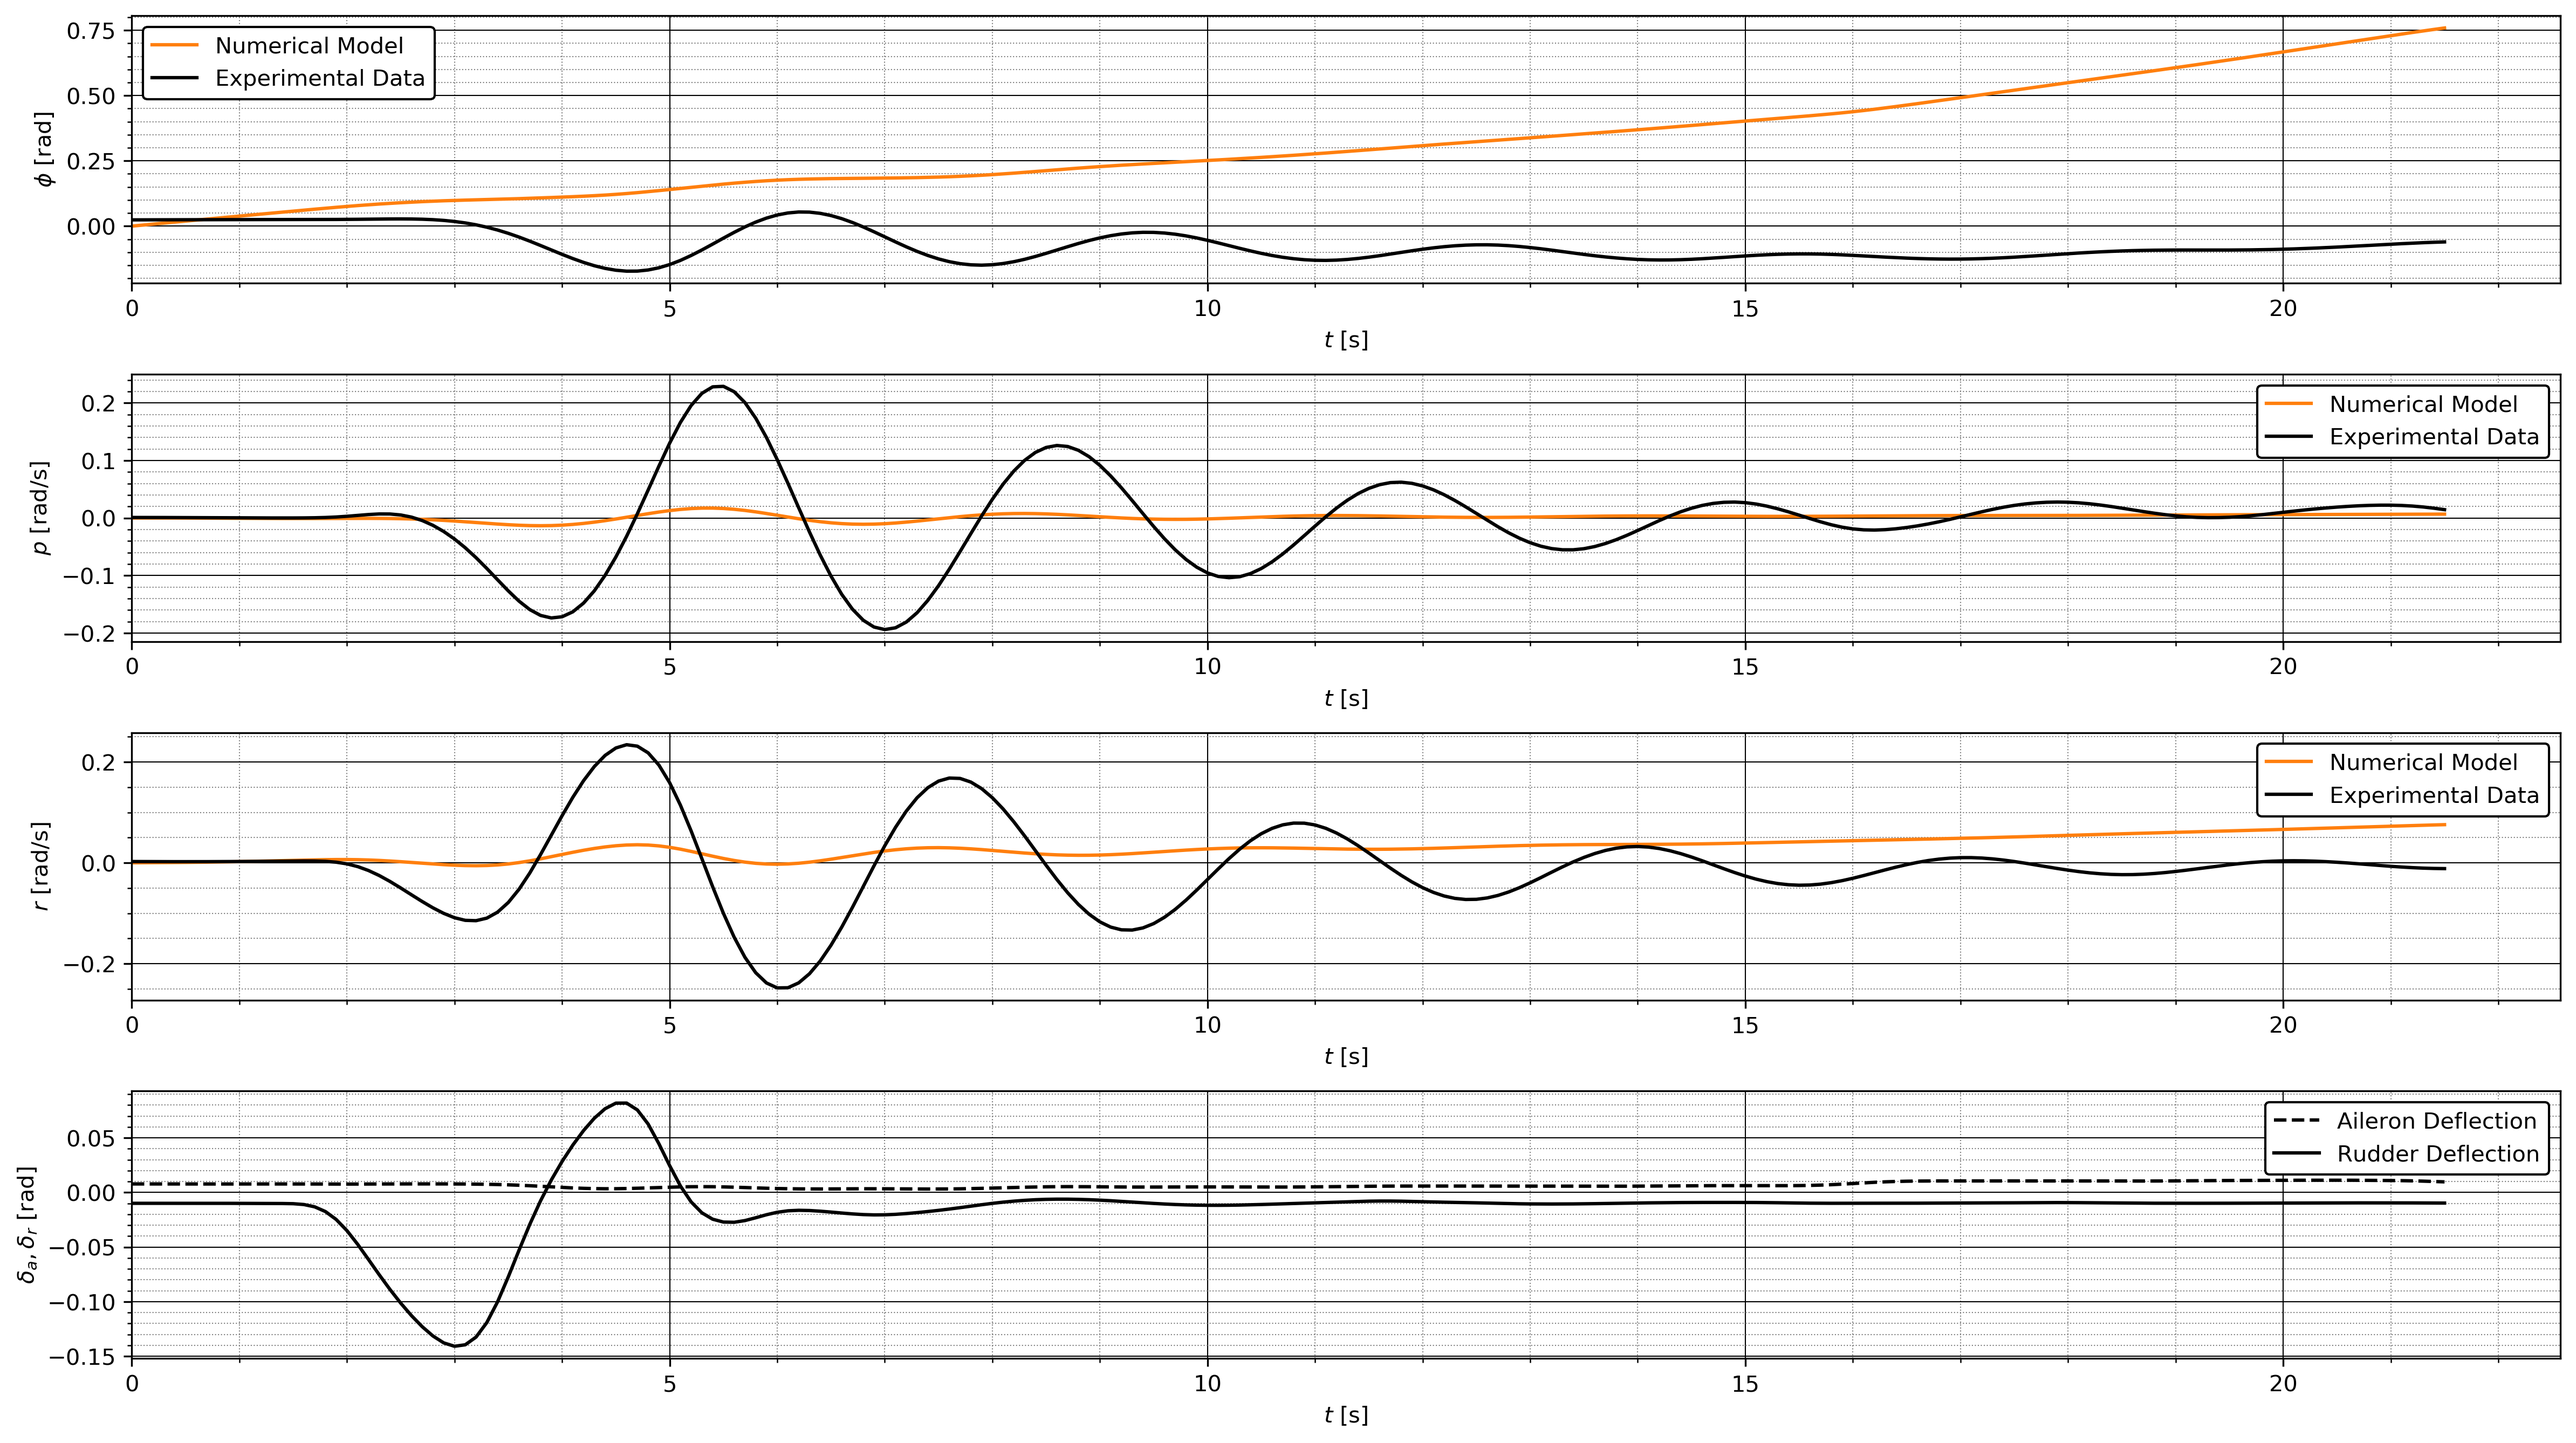
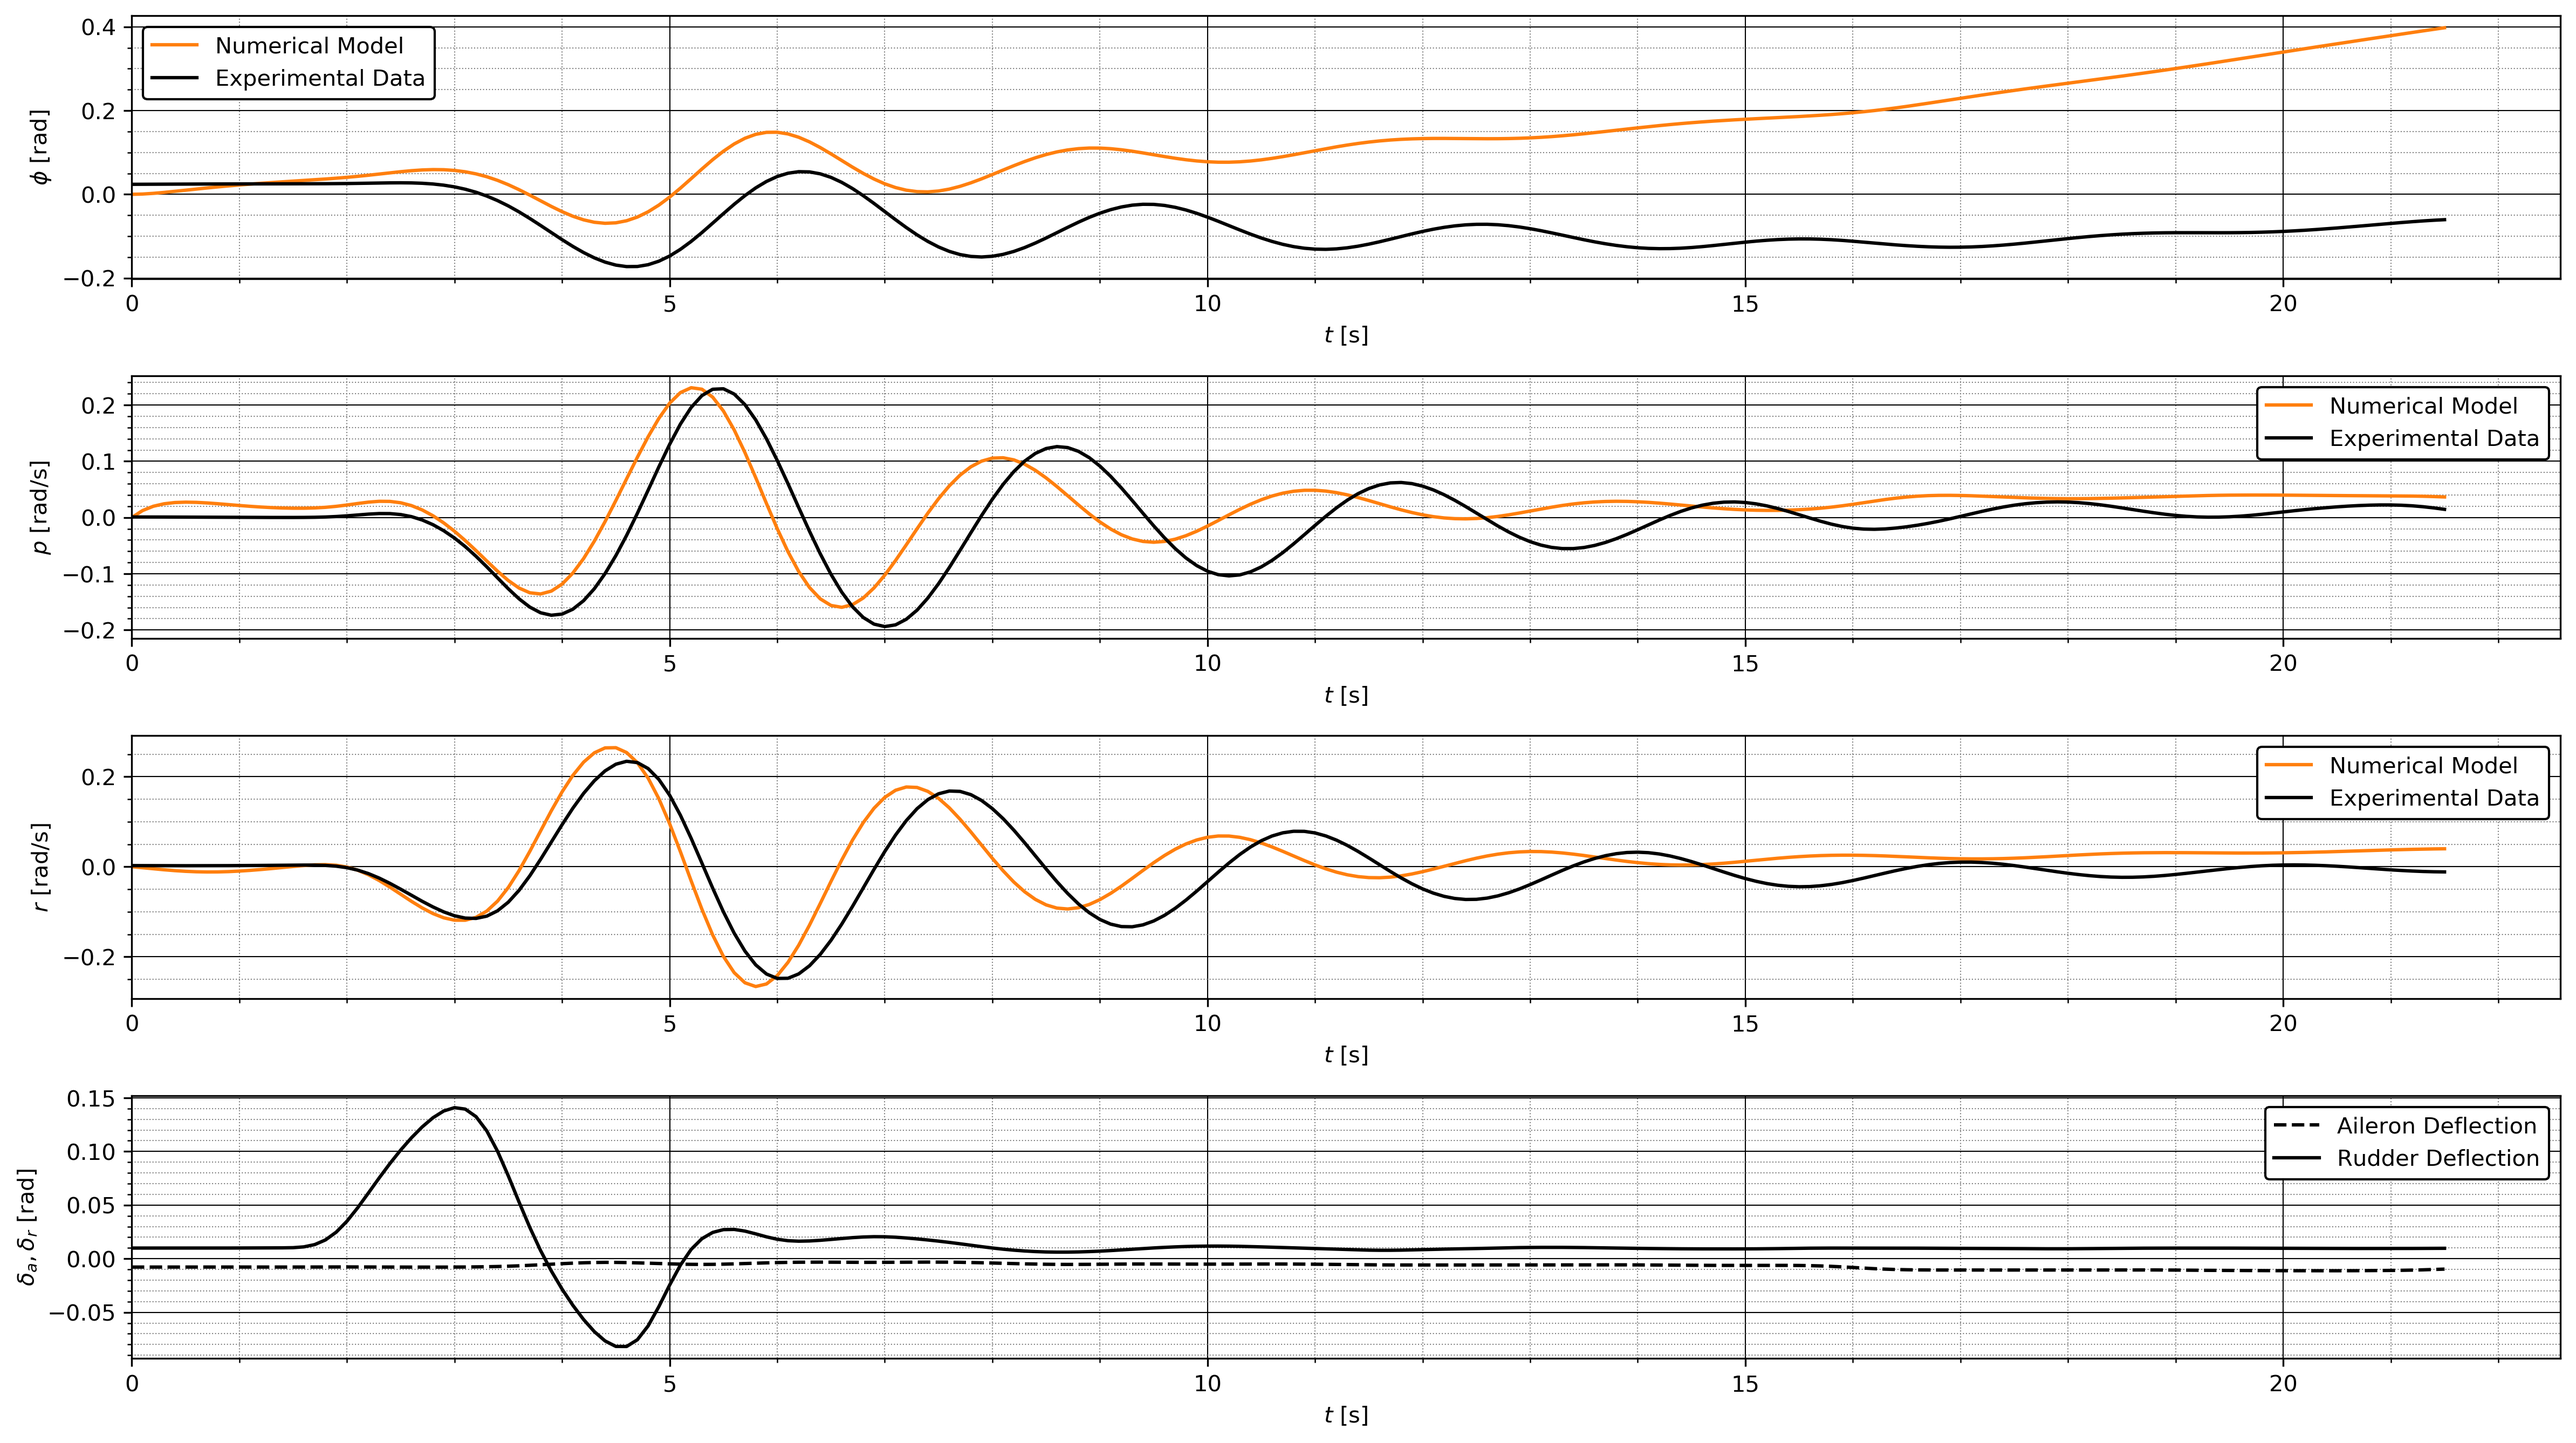
updating plots

diff --git a/main.py b/main.py
@@ -76,6 +76,12 @@ def manouvre(data, flightmanouvre):
         data        = data[(data['time'] >= time_start) & (data['time'] <= time_stop)]
         return data
 
+    if flightmanouvre == "aperroll":
+        time_start  = 2880
+        time_stop   = 2880 + 120
+        data        = data[(data['time'] >= time_start) & (data['time'] <= time_stop)]
+        return data
+
     if flightmanouvre == "dutchroll":
         time_start  = 3020
         time_stop   = 3041.5
@@ -84,12 +90,6 @@ def manouvre(data, flightmanouvre):
     if flightmanouvre == "dutchrollYD":
         time_start  = 3091
         time_stop   = 3103
-        data        = data[(data['time'] >= time_start) & (data['time'] <= time_stop)]
-        return data
-
-    if flightmanouvre == "aperroll":
-        time_start  = 2880
-        time_stop   = 2880 + 150
         data        = data[(data['time'] >= time_start) & (data['time'] <= time_stop)]
         return data
 
@@ -403,7 +403,10 @@ for motion in ['phugoid', 'shortperiod', 'aperroll', 'dutchroll', 'dutchrollYD',
     Ba      = np.zeros((4,4))                                                                # Declaration of matrix Ba with dimensions [4 x 2] for asymmetric EOM
     Cs      = np.zeros((4,2))                                                                # Declaration of matrix Cs with dimensions [4 x 2] for symmetric EOM
     Ca      = np.zeros((4,2))                                                                # Declaration of matrix Ca with dimensions [4 x 2] for asymmetric EOM
-
+    A_s     = np.zeros((4,4))                                                                # Declaration of matrix As with dimensions [4 x 4] for symmetric EOM
+    A_a     = np.zeros((4,4))                                                                # Declaration of matrix Aa with dimensions [4 x 4] for asymmetric EOM
+    B_s     = np.zeros((4,4))                                                                # Declaration of matrix Bs with dimensions [4 x 2] for symmetric EOM
+    B_a     = np.zeros((4,4))                                                                # Declaration of matrix Ba with dimensions [4 x 2] for asymmetric EOM
     # ==============================================================================================
     # Population of symmetric EOM matrices with variables for state-space representation
     # ==============================================================================================
@@ -486,11 +489,11 @@ for motion in ['phugoid', 'shortperiod', 'aperroll', 'dutchroll', 'dutchrollYD',
     C_temp[0:4, 0:2] = Cs
     C_temp[4:8, 2:4] = Ca
 
-    As = np.dot(inv(As), Bs)
-    Bs = np.dot(inv(As), Cs)
+    A_s = np.dot(inv(As), Bs)
+    B_s = np.dot(inv(As), Cs)
 
-    Aa = np.dot(inv(Aa), Ba)
-    Ba = np.dot(inv(Aa), Ca)
+    A_a = np.dot(inv(Aa), Ba)
+    B_a = np.dot(inv(Aa), Ca)
 
     # Output of state-space representation should be equal to the relevant aircraft states
     # --> matrix C is the identity matrix and D is a zero array
@@ -501,8 +504,8 @@ for motion in ['phugoid', 'shortperiod', 'aperroll', 'dutchroll', 'dutchrollYD',
     # Calculates responses to symmetric eigenmotions from state-space system
     # ==============================================================================================
     if motion in ['phugoid', 'shortperiod']:
-        syss = ctl.StateSpace(As, Bs, C, D)                                                  # create state-space system for symmetric eigenmotions
-        evals, evacs = eig(As)                                                               # compute eigenvalues and eigenvectors
+        syss = ctl.StateSpace(A_s, B_s, C, D)                                                  # create state-space system for symmetric eigenmotions
+        evals, evecs = eig(A_s)                                                               # compute eigenvalues and eigenvectors
 
         for i in range(0, len(evals)):                                                       # write eigenvalues to textfile
             f = open('eigenvalues.txt', 'a+')                                                # append lines to existing .txt-file
@@ -530,6 +533,7 @@ for motion in ['phugoid', 'shortperiod', 'aperroll', 'dutchroll', 'dutchrollYD',
                 ax1[i,0].plot(t, flightdata[i], c='k', label='Experimental Data')            # plot each variable from test flight data
                 ax1[i,0].set_xlabel('$t$ [s]')                                               # set label of x-axis
                 ax1[i,0].set_xlim(xmin=0)                                                    # set xmin at 0
+                ax1[i,0].set_xlim(xmax=120)                                                  # set xmax at tstop
                 ax1[i,0].set_ylabel('${}$ {}'.format(eigenmotion.columns[i+1], units[i+1]))  # set label of y-axis
                 ax1[i,0].minorticks_on()                                                     # set minor ticks
                 ax1[i,0].grid(which='major', linestyle='-', linewidth='0.5', color='black')  # customise major grid
@@ -539,6 +543,7 @@ for motion in ['phugoid', 'shortperiod', 'aperroll', 'dutchroll', 'dutchrollYD',
             ax1[3,0].plot(t, u[0], c='k', label='Elevator Deflection')                       # plot input variable
             ax1[3,0].set_xlabel('$t$ [s]')                                                   # set label of x-axis
             ax1[3,0].set_xlim(xmin=0)                                                        # set xmin at 0
+            ax1[i,0].set_xlim(xmax=120)                                                      # set xmax at tstop
             ax1[3,0].set_ylabel('$\delta_e$ [rad]')                                          # set label of y-axis
             ax1[3,0].minorticks_on()                                                         # set minor ticks
             ax1[3,0].grid(which='major', linestyle='-', linewidth='0.5', color='black')      # customise major grid
@@ -579,8 +584,8 @@ for motion in ['phugoid', 'shortperiod', 'aperroll', 'dutchroll', 'dutchrollYD',
     # Calculates responses to asymmetric eigenmotions from state-space system
     # ==============================================================================================
     if motion in ['aperroll', 'dutchroll', 'dutchrollYD', 'spiral']:
-        sysa = ctl.StateSpace(Aa, Ba, C, D)                                                  # create state-space system for symmetric eigenmotions
-        evals, evacs = eig(Aa)                                                               # compute eigenvalues and eigenvectors
+        sysa = ctl.StateSpace(A_a, B_a, C, D)                                                  # create state-space system for symmetric eigenmotions
+        evals, evecs = eig(A_a)                                                               # compute eigenvalues and eigenvectors
 
         for i in range(0, len(evals)):                                                       # write eigenvalues to textfile
             f = open('eigenvalues.txt', 'a+')                                                # append lines to existing .txt-file
@@ -591,6 +596,7 @@ for motion in ['phugoid', 'shortperiod', 'aperroll', 'dutchroll', 'dutchrollYD',
 
         units = ['[rad]', '[rad]', '[rad/s]', '[rad/s]']                                     # list with units of columns for plotting
         u = [np.radians(data.delta_a), np.radians(data.delta_r)]                             # [rad] input array given input at each time for [da, dr]
+        u = np.negative(u)                                                                   # [rad] flip input sign; input deflections seems to have wrong sign
         columns = [r'\beta', r'\phi', r'p', r'r']                                            # names of invidiual columns for DataFrame
         eigenmotion = []                                                                     # initialise empty list
 
